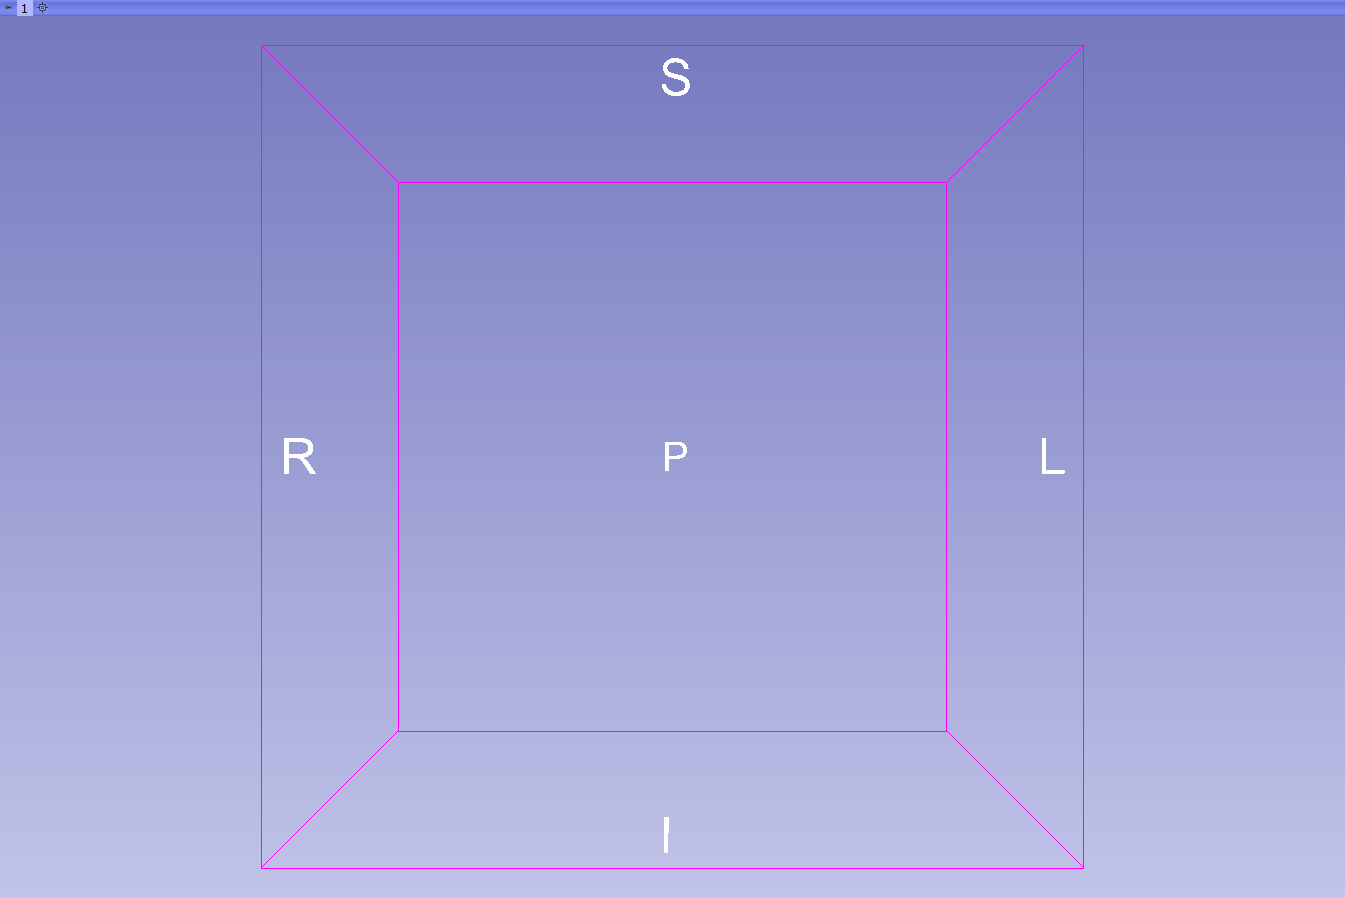
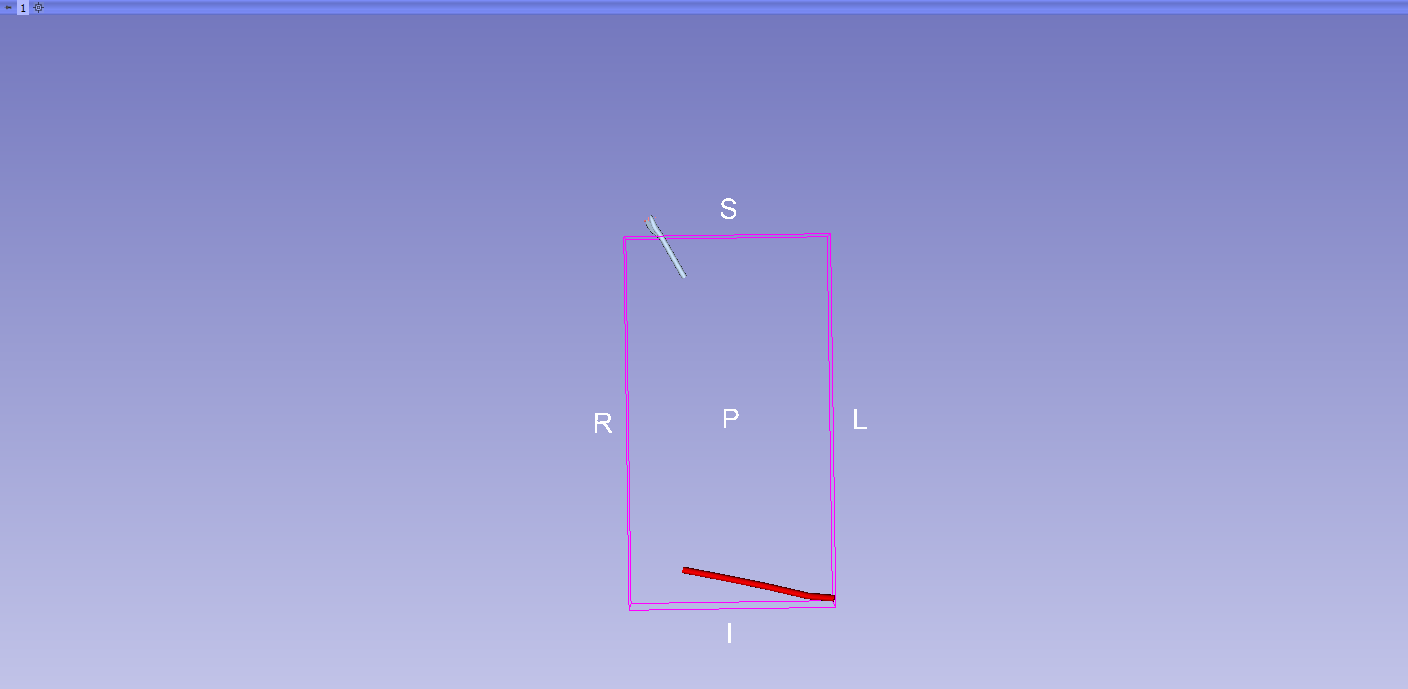
minor housekeeping

diff --git a/VesselHarvestingTutor/VesselHarvestingTutor.py b/VesselHarvestingTutor/VesselHarvestingTutor.py
@@ -275,7 +275,8 @@ class VesselHarvestingTutorLogic(ScriptedLoadableModuleLogic):
   def resetModels(self):
     for i in range(0, NUM_MODELS):
       branchNode = slicer.util.getNode('Model_' + str(i))
-      branchNode.GetDisplayNode().SetVisibility(True)
+      if branchNode:
+        branchNode.GetDisplayNode().SetVisibility(True)
     
 
   def resetMetrics(self):
@@ -302,8 +303,15 @@ class VesselHarvestingTutorLogic(ScriptedLoadableModuleLogic):
     vesselToRetractor = slicer.util.getNode('VesselToRetractor')
     if vesselToRetractor == None:
       vesselToRetractor = slicer.vtkMRMLLinearTransformNode()
-      vesselToRetractor.SetName('vesselToRetractor')
+      vesselToRetractor.SetName('VesselToRetractor')
       slicer.mrmlScene.AddNode(vesselToRetractor)
+
+    vesselModelToVessel = slicer.util.getNode('VesselModelToVessel')
+    if vesselModelToVessel == None: 
+      vesselModelToVessel = slicer.vtkMRMLLinearTransformNode()
+      vesselModelToVessel.SetName('VesselModelToVessel')
+      slicer.mrmlScene.AddNode(vesselModelToVessel)
+    vesselModelToVessel.SetAndObserveTransformNodeID(vesselToRetractor.GetID())
 
     triggerToCutter = slicer.util.getNode('TriggerToCutter')
     if triggerToCutter == None:
@@ -329,11 +337,15 @@ class VesselHarvestingTutorLogic(ScriptedLoadableModuleLogic):
       [success, cutterTipToCutter] = slicer.util.loadTransform(filePath, returnNode=True)
       cutterTipToCutter.SetName('CutterTipToCutter')
 
-    vesselToWorld = slicer.util.getNode('VesselToWorld')
-    if vesselToWorld == None:
-      filePath = os.path.join(moduleDir, os.pardir, 'Transforms', 'VesselToWorld.h5')
-      [success, vesselToWorld] = slicer.util.loadTransform(filePath, returnNode=True)
-      vesselToWorld.SetName('VesselToWorld')
+    cameraToRetractor = slicer.util.getNode('CameraToRetractor')
+    if cameraToRetractor == None:
+      filePath = os.path.join(moduleDir, os.pardir, 'Transforms', 'CameraToRetractor.h5')
+      [success, cameraToRetractor] = slicer.util.loadTransform(filePath, returnNode=True)
+      cameraToRetractor.SetName('CameraToRetractor')
+
+    defaultSceneCamera = slicer.util.getNode('vtkMRMLCameraNode1')
+    cameraToRetractorMatrix = cameraToRetractor.GetMatrixTransformToParent()
+    defaultSceneCamera.SetAppliedTransform(cameraToRetractorMatrix)
 
     # Create and set fiducial point on the cutter tip, used to calculate distance metrics
     fidNode = slicer.util.getNode("F")
@@ -434,8 +446,10 @@ class VesselHarvestingTutorLogic(ScriptedLoadableModuleLogic):
       branchNode = slicer.util.getNode(branchName)
       branchNode.SetAndObserveTransformNodeID(vesselID)
 
-    vesselToWorld = slicer.util.getNode('VesselToWorld')
-    self.vesselModelToVessel.SetAndObserveTransformNodeID(vesselToWorld.GetID())
+      modelName = 'Model_' + str(i)
+      modelNode = slicer.util.getNode(modelName)
+      modelNode.SetAndObserveTransformNodeID(vesselID)
+
 
   def run(self):
     return True
@@ -588,15 +602,14 @@ class VesselHarvestingTutorLogic(ScriptedLoadableModuleLogic):
     vesselPoints = [ self.distance(cutterTipWorld, polydata.GetPoint(i)) for i in range(numVesselPoints)]
     cutDistance = min(vesselPoints)
     if self.metrics['maxDistance'] < cutDistance:
-      self.metrics['maxDistance'] = round(cutDistance, 2)
+      self.metrics['maxDistance'] = str(round(cutDistance, 2)) + " mm"
     if self.metrics['minDistance'] > cutDistance:
-      self.metrics['minDistance'] = round(cutDistance, 2)
+      self.metrics['minDistance'] = str(round(cutDistance, 2)) + " mm"
     # TODO average cut distance logic 
     
   
   def getDistanceMetrics(self):
     if len(self.pathFiducialsX) > 0:
-      print self.pathFiducialsX, self.pathFiducialsY
       x = numpy.array(self.pathFiducialsX)
       y = numpy.array(self.pathFiducialsY)
       A = numpy.vstack([x, numpy.ones(len(x))]).T
